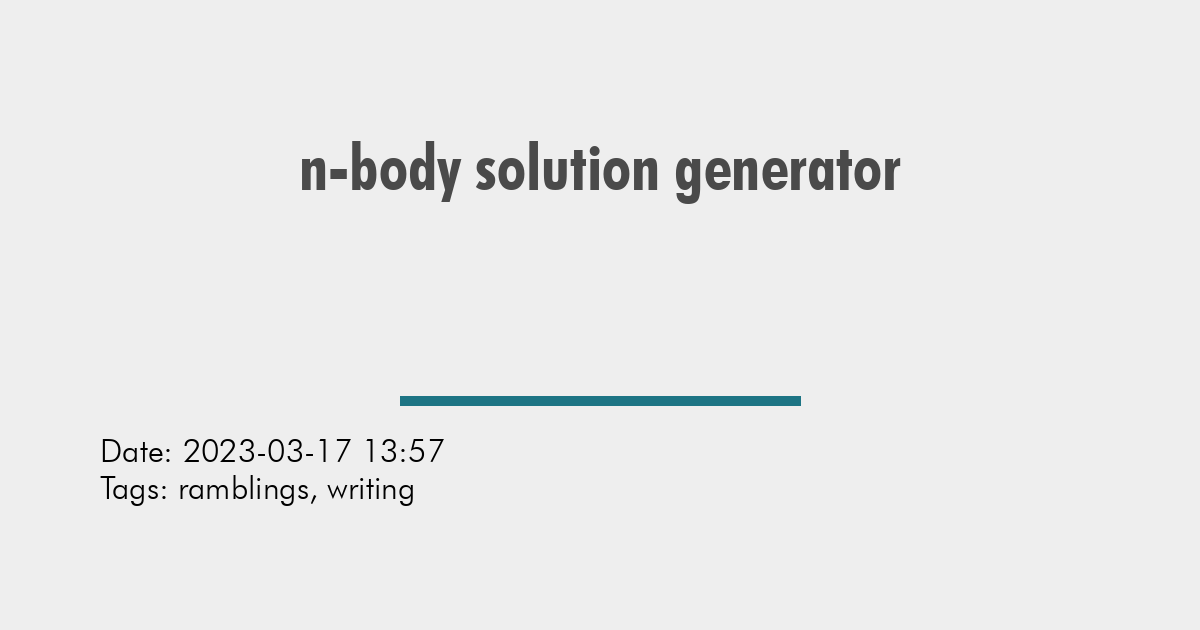
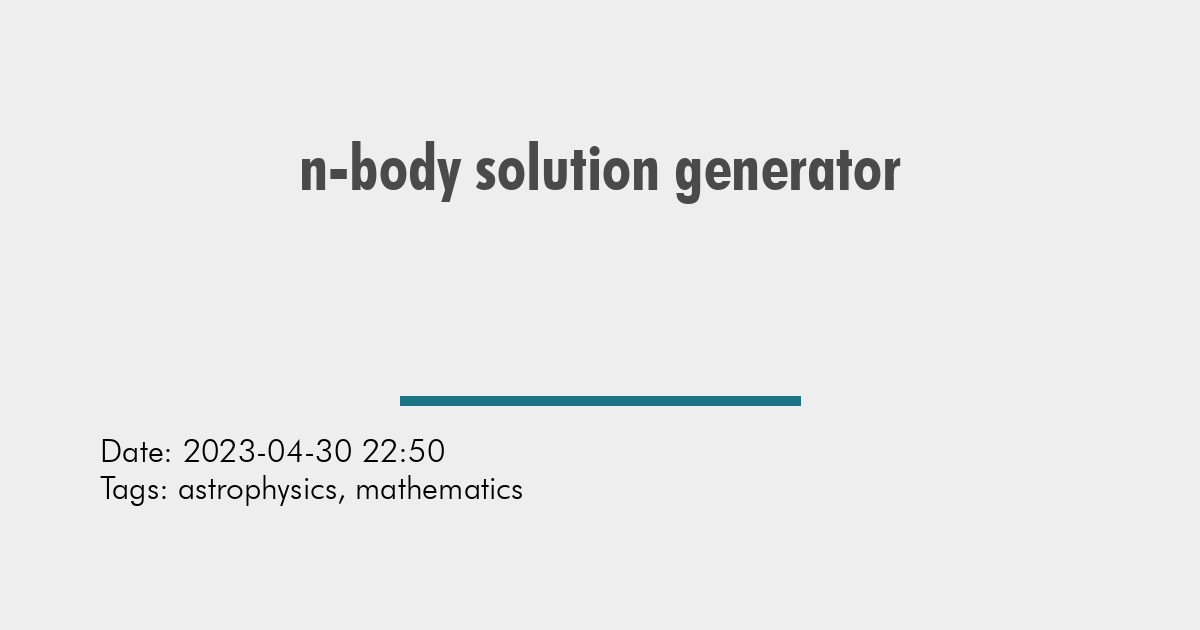
adding link to n-body sim

Changed region(s): [[0.1542, 0.6937, 0.4317, 0.8143]]

diff --git a/Content/posts/2023-04-30-n-body-simulation.md b/Content/posts/2023-04-30-n-body-simulation.md
@@ -1,9 +1,12 @@
 ---
-date: 2023-03-17 13:57
-description: My thoughts on writing in the 21st century.
-tags: ramblings, writing
+date: 2023-04-30 22:50
+description: n-body solution generator and solver
+tags: astrophysics, mathematics
 ---
 
 # n-body solution generator
 
+<noscript>
+This post requires JavaScript to be viewed properly :(
+</noscript>
 
